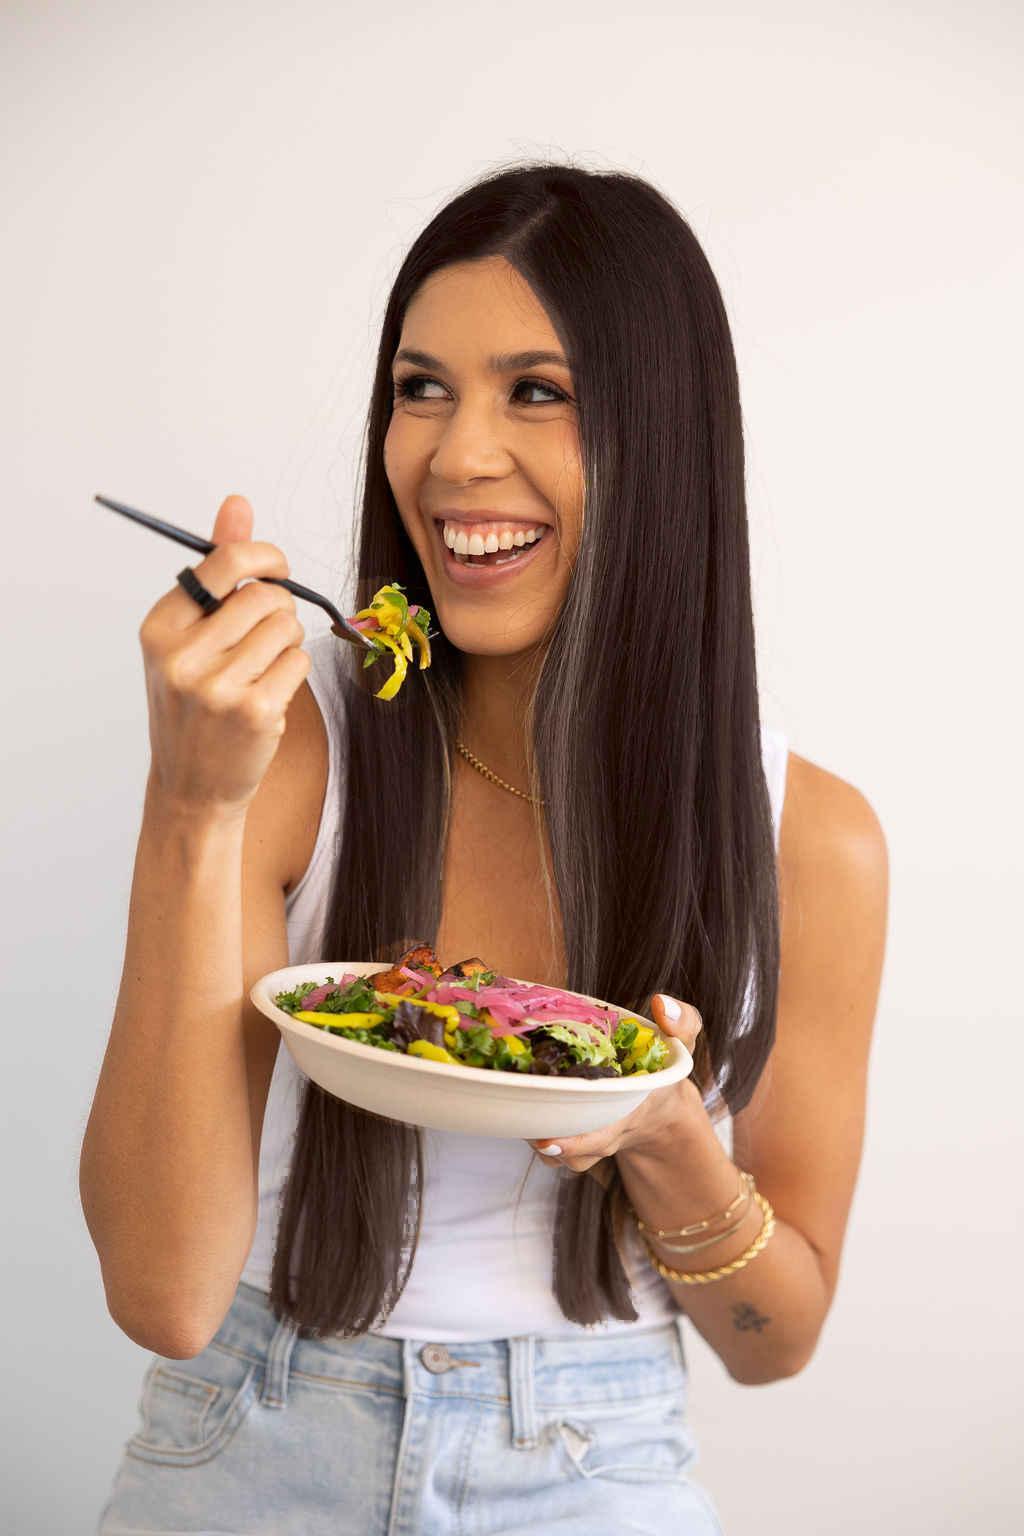
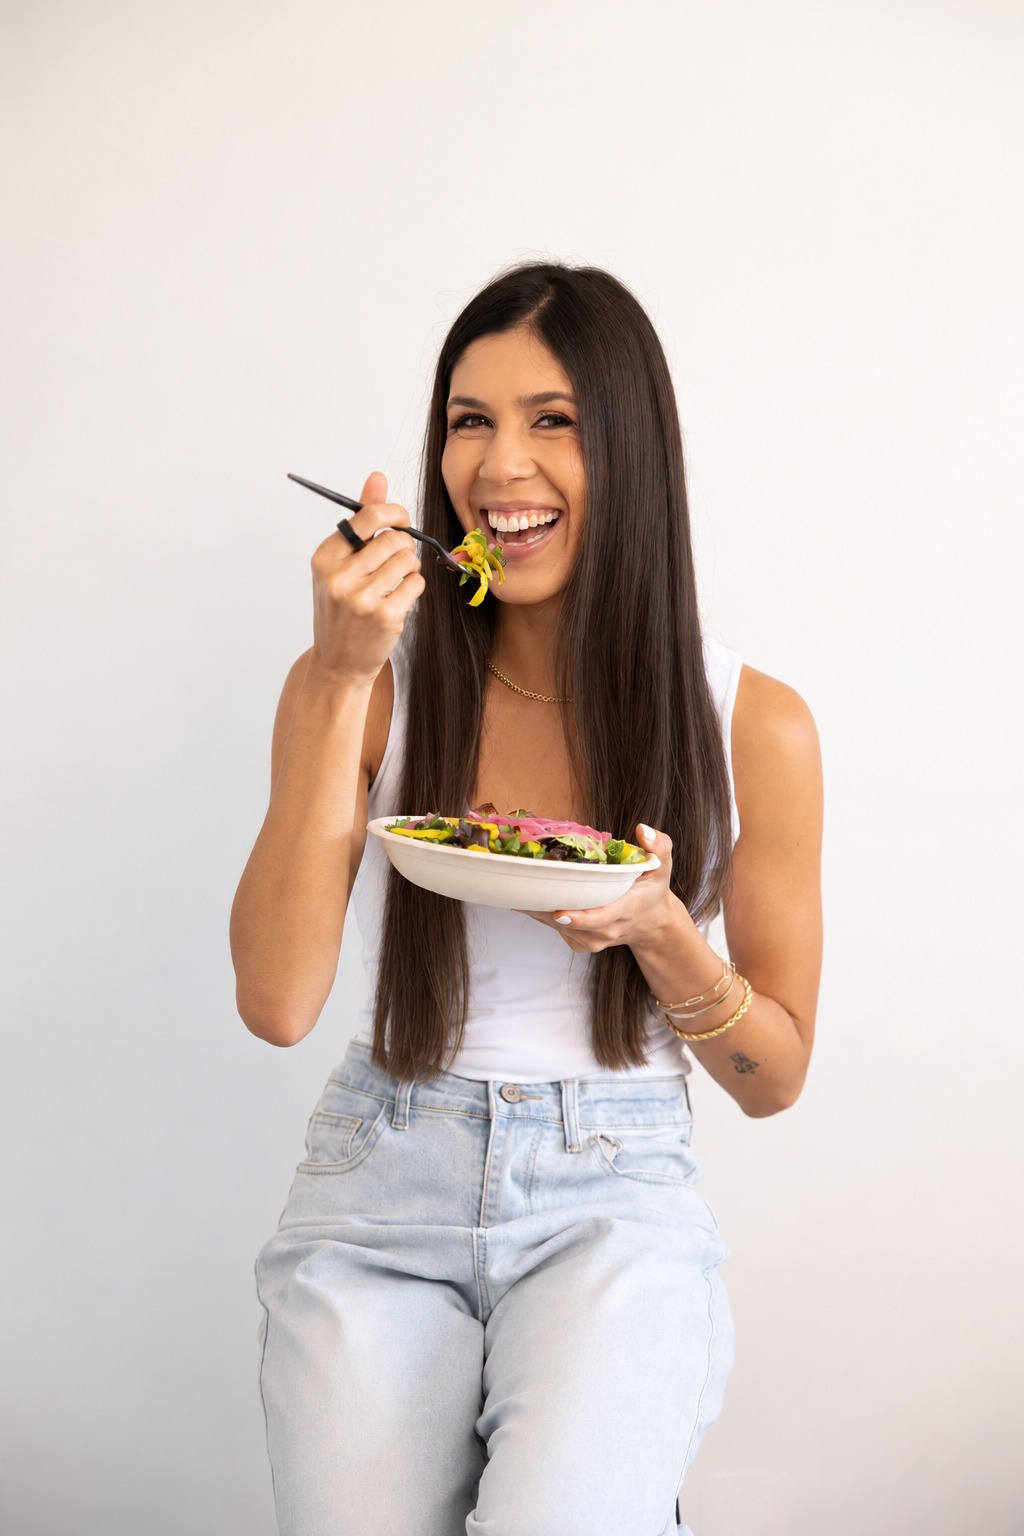
Fotos nuevas de Verónica, más naturales, sin sticker ni tomacorrientes

diff --git a/docs/DECISIONES.md b/docs/DECISIONES.md
@@ -284,6 +284,11 @@ razón de cada una, y lo que **no** se decidió porque le toca a Mari o a Verón
     canónicas; las fichas de examen se cargan al abrir la ventana, así que Google no las ve; una
     página propia para la guía de hormonas ayudaría a posicionarla.
 
+31. **2026-10-04 — Fotos nuevas, más naturales** (generadas por Codex a pedido de Mari: las mismas
+    cinco fotos con el pelo oscuro): bata con laptop, té, sentada con bowl, comiendo del bowl y de
+    pie con laptop. Codex borró después el sticker de la laptop y los dos tomacorrientes (cambios 2
+    y 20 de Verónica). Copias con nombre en `Fotos/pelo-oscuro-2026-10-03/`.
+
 ## Abiertas — para Mari y Verónica
 
 - **¿Borrar las variantes A y B?** El inicio ya está elegido (decisión 13); se conservan para comparar.
